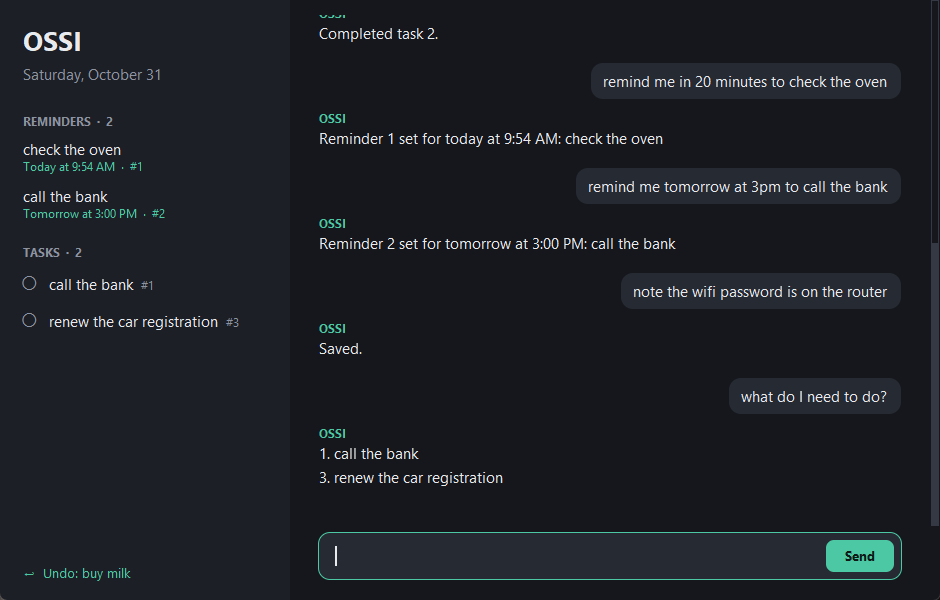
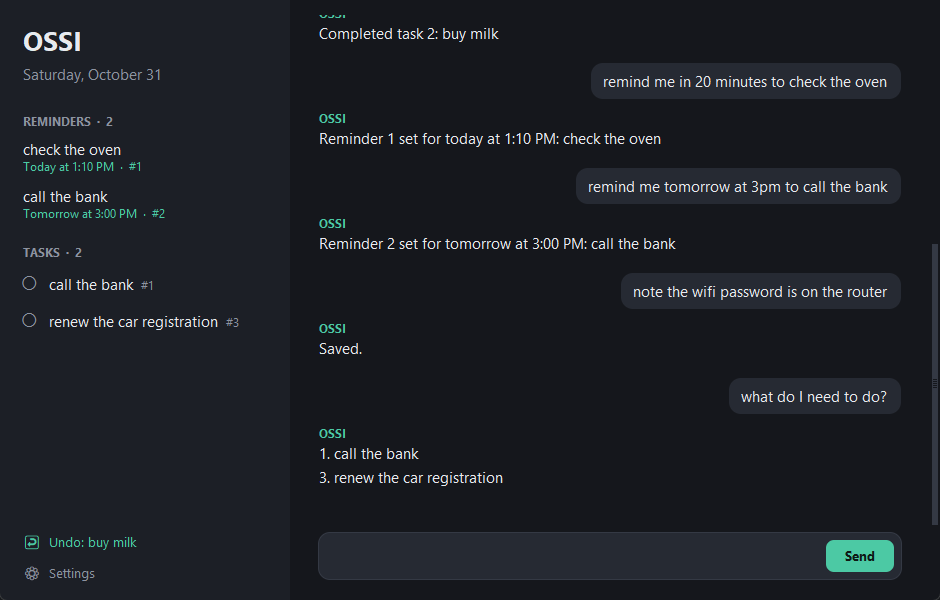
readme

diff --git a/README.md b/README.md
@@ -13,6 +13,9 @@ A personal assistant desktop app that runs on your own computer. No AI key, no a
 - **Tasks:** add tasks by typing, and click a circle to complete one. Undo brings it back.
 - **Notes:** save quick notes and search them later.
 - **Time and date:** ask for either one.
+- **Settings:** change everything from one page in the window.
+- **Local AI (optional):** a model on your own computer can handle what the built-in commands
+  don't understand.
 
 OSSI matches what you type against known phrases and runs the skill that fits, so it only
 understands what it's been taught. It still handles typos, polite wording and follow-ups like
@@ -39,9 +42,7 @@ powershell -ExecutionPolicy Bypass -File scripts\create_shortcut.ps1
 
 ## Using the app
 
-Type in the box at the bottom of the window and press Enter. Click **Settings** at the bottom of
-the sidebar to change the local AI, your location, temperature units, the daily briefing and
-starting at login. Each setting also has a typed command, and both do the same thing.
+Type in the box at the bottom of the window and press Enter.
 
 | Type | What happens |
 | --- | --- |
@@ -53,6 +54,8 @@ starting at login. Each setting also has a typed command, and both do the same t
 | `weather friday`, `weather this week`, `weather this weekend` | Shows other days, up to a week out |
 | `what's the weather in Paris` | Shows the weather somewhere else |
 | `use celsius` or `use fahrenheit` | Chooses how temperatures are shown |
+| `turn on ai` or `turn off ai` | Turns the optional local AI on or off |
+| `ai status` | Says whether the AI is on and Ollama is running |
 | `remind me tomorrow at 3pm to call the bank` | Sets a reminder |
 | `remind me to check the oven in 20 minutes` | Sets a reminder, with the time at the end |
 | `reminders` | Lists upcoming reminders |
@@ -76,6 +79,22 @@ starting at login. Each setting also has a typed command, and both do the same t
   stepping back through earlier tasks.
 - **Copy from the chat:** drag to select text and press Ctrl+C, or right-click a message and
   choose **Copy**.
+
+### Settings
+
+Click **Settings** at the bottom of the sidebar, and **Back to chat** to return.
+
+![The Settings page, with switches for the local AI, daily briefing and starting at login](docs/settings.png)
+
+| Setting | What it does |
+| --- | --- |
+| **Use a local AI model** | Turns the AI on or off and shows its status. If Ollama isn't ready, it says what's missing. |
+| **Location** | Sets the place used for weather. If several places match, click the right one. |
+| **Temperature** | Switches between °F and °C |
+| **Daily briefing** | Turns the automatic briefing on or off |
+| **Start when I log in** | Starts OSSI in the background when you log in |
+
+Each setting also has a typed command, and both do the same thing.
 
 ### Daily briefing
 
@@ -110,9 +129,8 @@ OSSI works fully without AI. To have it handle messages its commands don't under
 [Ollama](https://ollama.com/). There's no key or account, and your messages stay on your computer.
 
 1. Install Ollama, then download a model in a terminal: `ollama pull llama3.2`. That's about 2 GB.
-2. In OSSI, click **Settings** and turn on **Use a local AI model**. It tells you what's missing
-   if Ollama isn't ready, and lets you pick a model if you have several. You can also type
-   `turn on ai`, `turn off ai` and `ai status`.
+2. In OSSI, click **Settings** and turn on **Use a local AI model**. If you have several models,
+   choose one from the list that appears.
 
 OSSI tries its own commands and typo corrections first, so those stay instant. For anything else,
 the model sees your message, the last few messages of the conversation, the time, and your open
@@ -160,9 +178,15 @@ Reminders only fire while OSSI is running, so closing the window hides it instea
 Open OSSI the usual way to bring the window back, and type `exit` to quit completely. There's
 no system tray icon yet.
 
-To keep reminders working across restarts, type `start at login`. Anything that came due while
-OSSI wasn't running appears as a missed reminder the next time it starts. If Windows blocks a
-notification with Do Not Disturb, the reminder still appears in the chat.
+To keep reminders working across restarts, turn on **Start when I log in** in Settings. Anything
+that came due while OSSI wasn't running appears as a missed reminder the next time it starts. If
+Windows blocks a notification with Do Not Disturb, the reminder still appears in the chat.
+
+### Updating OSSI
+
+After you get new code, for example with `git pull`, just open OSSI the usual way. A copy running
+older code closes itself and the new code takes over. Your data is safe, but anything typed in the
+box and not yet sent is lost.
 
 ## Run from a terminal (optional)
 
@@ -179,6 +203,9 @@ ossi                          # open the window
 ossi-gui                      # open the window and free up the terminal
 ossi add task call the bank   # run one command without opening the window
 ```
+
+If a command asks a question, like `Did you mean`, type your answer at the `>` prompt. Press Enter
+on an empty line to skip it.
 
 ## Project layout
 
@@ -199,13 +226,13 @@ src/ossi/
   weather.py    Gets the forecast from Open-Meteo
   ollama.py     Talks to a local AI model
   notifications.py  Windows notifications
-  instance.py   Keeps one copy running and reopens its window
+  instance.py   Keeps one copy running, and replaces it after an update
   autostart.py  Starts OSSI at login
   skills/       One file per skill, loaded automatically
   assets/       The app icons
 scripts/        Generate the Desktop shortcut and the icons
 tests/          Unit tests
-docs/           The screenshot in this README
+docs/           The screenshots in this README
 ```
 
 ## Add a skill
@@ -245,12 +272,14 @@ in `storage.py`. Don't edit an existing entry, because existing databases have a
 python -m unittest discover -s tests
 ```
 
-The window tests open a hidden window, so they need a desktop session.
+The window tests need a desktop session. Most keep their window hidden, but a few show it briefly.
+They use temporary data and never change your login settings. Nothing in the tests uses the
+internet.
 
 ## Roadmap
 
 1. **Done:** desktop app, tasks, notes, time and date, reminders, typos and follow-ups, daily
-   briefing, weather, optional local AI
+   briefing, weather, optional local AI, Settings page
 2. **Computer control:** open apps and websites, organize the Downloads folder
 3. **Voice:** offline speech recognition and text to speech
 
